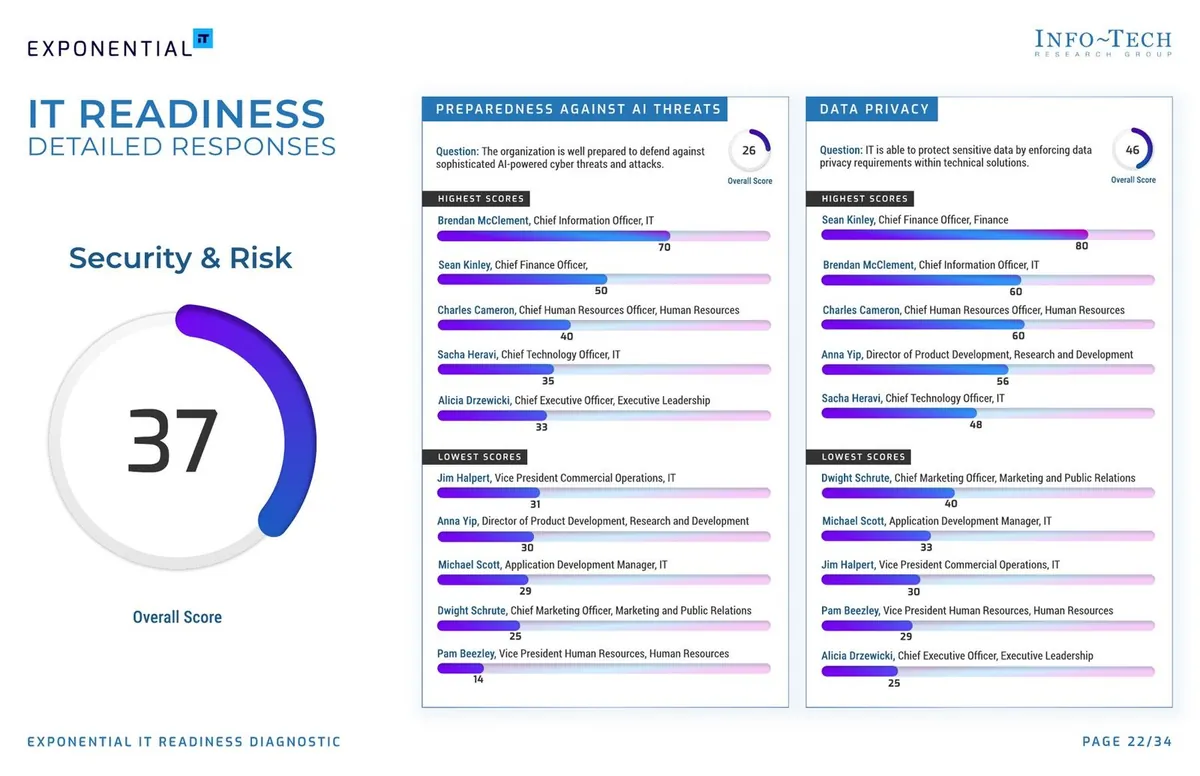
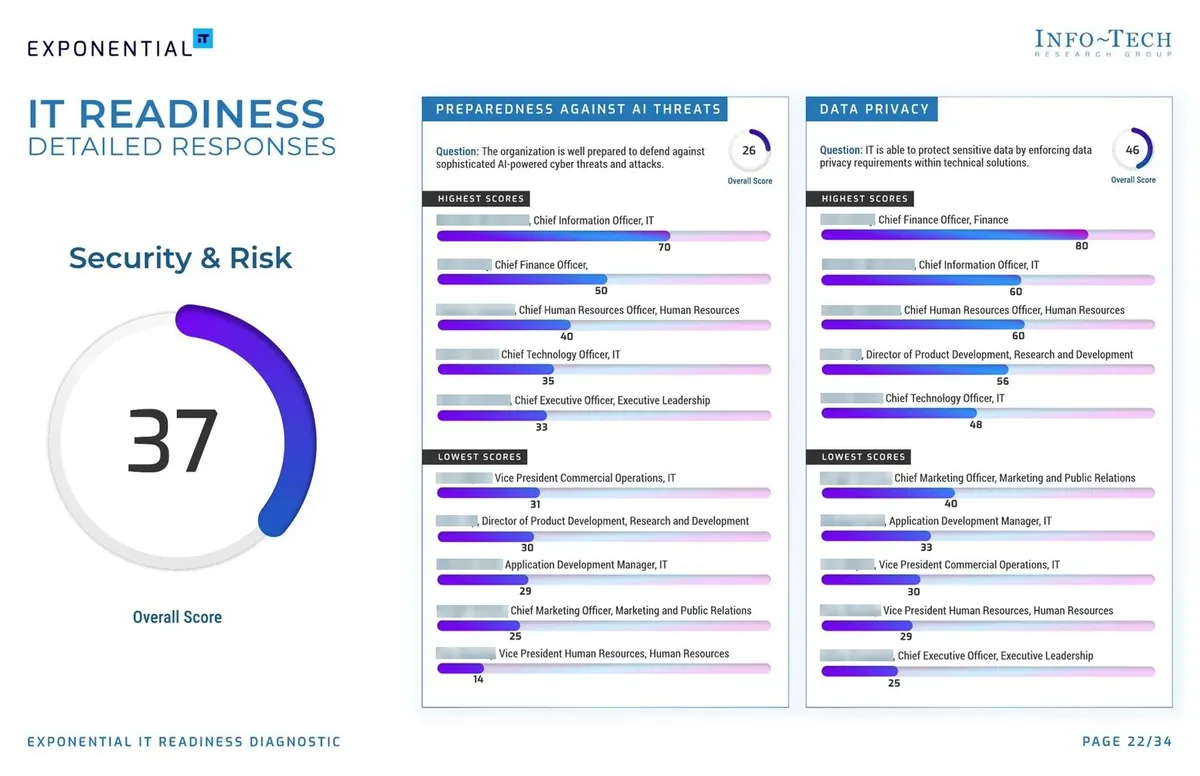
Exponential IT report: blur names on the feedback, strategy and security pages
Claude-Session: https://claude.ai/code/session_01VL4Lb2NPkxV2R89rKHL5Ya

diff --git a/preview-3d8f7617/projects/project-3.html b/preview-3d8f7617/projects/project-3.html
@@ -57,12 +57,12 @@
 <div class="grid md:grid-cols-2 gap-x-8 gap-y-12">
 <div>
 <a class="zoom" href="../images/report-exponential-strategy.webp">
-<img alt="Domain results page for Strategy and Innovation: a large gauge showing an overall score of 48, beside a card listing the question and each stakeholder’s score as a gradient bar, split into highest and lowest scores." class="w-full" height="1035" loading="lazy" sizes="(min-width: 1040px) 460px, (min-width: 768px) 45vw, 100vw" src="../images/report-exponential-strategy.webp" srcset="../images/report-exponential-strategy-800.webp 800w, ../images/report-exponential-strategy-1200.webp 1200w, ../images/report-exponential-strategy.webp 1600w" width="1600"></a>
+<img alt="Domain results page for Strategy and Innovation: a large gauge showing an overall score of 48, beside a card listing the question and each stakeholder’s score as a gradient bar, split into highest and lowest scores. Names are blurred." class="w-full" height="1035" loading="lazy" sizes="(min-width: 1040px) 460px, (min-width: 768px) 45vw, 100vw" src="../images/report-exponential-strategy.webp" srcset="../images/report-exponential-strategy-800.webp 800w, ../images/report-exponential-strategy-1200.webp 1200w, ../images/report-exponential-strategy.webp 1600w" width="1600"></a>
 
 </div>
 <div>
 <a class="zoom" href="../images/report-exponential-security.webp">
-<img alt="Domain results page for Security and Risk: an overall score gauge of 37 beside two question cards, AI threat preparedness and data privacy, each ranking stakeholder scores from highest to lowest." class="w-full" height="1035" loading="lazy" sizes="(min-width: 1040px) 460px, (min-width: 768px) 45vw, 100vw" src="../images/report-exponential-security.webp" srcset="../images/report-exponential-security-800.webp 800w, ../images/report-exponential-security-1200.webp 1200w, ../images/report-exponential-security.webp 1600w" width="1600"></a>
+<img alt="Domain results page for Security and Risk: an overall score gauge of 37 beside two question cards, AI threat preparedness and data privacy, each ranking stakeholder scores from highest to lowest. Names are blurred." class="w-full" height="1035" loading="lazy" sizes="(min-width: 1040px) 460px, (min-width: 768px) 45vw, 100vw" src="../images/report-exponential-security.webp" srcset="../images/report-exponential-security-800.webp 800w, ../images/report-exponential-security-1200.webp 1200w, ../images/report-exponential-security.webp 1600w" width="1600"></a>
 
 </div>
 <div>
@@ -72,7 +72,7 @@
 </div>
 <div>
 <a class="zoom" href="../images/report-exponential-feedback.webp">
-<img alt="CIO and IT feedback page: an open-ended question at the top, followed by each leader’s written answer with their name and title." class="w-full" height="1035" loading="lazy" sizes="(min-width: 1040px) 460px, (min-width: 768px) 45vw, 100vw" src="../images/report-exponential-feedback.webp" srcset="../images/report-exponential-feedback-800.webp 800w, ../images/report-exponential-feedback-1200.webp 1200w, ../images/report-exponential-feedback.webp 1600w" width="1600"></a>
+<img alt="CIO and IT feedback page: an open-ended question at the top, followed by each leader’s written answer with their title. Names are blurred." class="w-full" height="1035" loading="lazy" sizes="(min-width: 1040px) 460px, (min-width: 768px) 45vw, 100vw" src="../images/report-exponential-feedback.webp" srcset="../images/report-exponential-feedback-800.webp 800w, ../images/report-exponential-feedback-1200.webp 1200w, ../images/report-exponential-feedback.webp 1600w" width="1600"></a>
 
 </div>
 </div>
